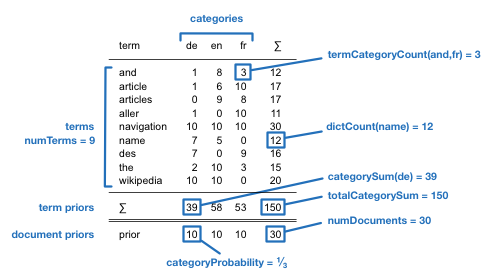
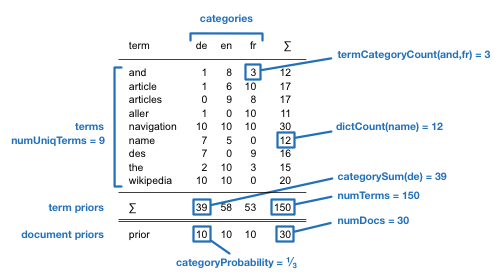
Fix some naming.

diff --git a/palladian-core/src/main/java/ws/palladian/classification/text/PalladianTextClassifier.java b/palladian-core/src/main/java/ws/palladian/classification/text/PalladianTextClassifier.java
@@ -60,13 +60,13 @@ public class PalladianTextClassifier implements Learner<DictionaryModel>, Classi
          * @param dictCount The absolute count of documents in the dictionary which contain the term.
          * @param docCount The absolute count of the term in the current document.
          * @param categorySum The absolute count sum of all terms in the current category.
-         * @param numTerms The total number of unique terms in the dictionary model.
+         * @param numUniqTerms The total number of unique terms in the dictionary model.
          * @param numDocs The total number of documents in the dictionary model.
-         * @param totalCategorySum The total count sum of all terms in all categories.
+         * @param numTerms The total number of terms in the dictionary model.
          * @return A score for the term-category pair, greater/equal zero.
          */
         double score(String term, String category, int termCategoryCount, int dictCount, int docCount, int categorySum,
-                int numTerms, int numDocs, int totalCategorySum);
+                int numUniqTerms, int numDocs, int numTerms);
 
         /**
          * (Re)score a category, after all term-category-pairs have been scored.
@@ -90,7 +90,7 @@ public class PalladianTextClassifier implements Learner<DictionaryModel>, Classi
     public static class DefaultScorer implements Scorer {
         @Override
         public double score(String term, String category, int termCategoryCount, int dictCount, int docCount,
-                int categorySum, int numTerms, int numDocs, int totalCategorySum) {
+                int categorySum, int numUniqTerms, int numDocs, int numTerms) {
             if (dictCount == 0) { // prevent zero division
                 return 0;
             }
@@ -208,9 +208,9 @@ public class PalladianTextClassifier implements Learner<DictionaryModel>, Classi
             termCounts.add(iterator.next());
         }
         CategoryEntries termSums = model.getTermPriors();
-        int numTerms = model.getNumTerms();
+        int numUniqTerms = model.getNumTerms();
         int numDocs = model.getPriors().getTotalCount();
-        int totalCategorySum = termSums.getTotalCount();
+        int numTerms = termSums.getTotalCount();
 
         for (Entry<String, Integer> termCount : termCounts.unique()) {
             String term = termCount.getKey();
@@ -225,8 +225,8 @@ public class PalladianTextClassifier implements Learner<DictionaryModel>, Classi
                 String categoryName = category.getName();
                 int categorySum = termSums.getCount(categoryName);
                 int count = categoryCounts.count(categoryName);
-                double score = scorer.score(term, categoryName, count, dictCount, docCount, categorySum, numTerms,
-                        numDocs, totalCategorySum);
+                double score = scorer.score(term, categoryName, count, dictCount, docCount, categorySum, numUniqTerms,
+                        numDocs, numTerms);
                 builder.add(categoryName, score);
             }
         }

diff --git a/palladian-core/src/main/java/ws/palladian/classification/text/BayesScorer.java b/palladian-core/src/main/java/ws/palladian/classification/text/BayesScorer.java
@@ -63,10 +63,10 @@ public final class BayesScorer implements Scorer {
     }
 
     @Override
-    public double score(String term, String category, int termCategoryCount, int dictCount, int docCount,
-            int categorySum, int numTerms, int numDocs, int totalCategorySum) {
+    public double score(String term, String category, int termCategoryCount, int dictCount, int docCount, int categorySum,
+            int numUniqTerms, int numDocs, int numTerms) {
         int numerator = (complement ? dictCount - termCategoryCount : termCategoryCount) + (laplace ? 1 : 0);
-        int denominator = (complement ? totalCategorySum - categorySum : categorySum) + (laplace ? numTerms : 0);
+        int denominator = (complement ? numTerms - categorySum : categorySum) + (laplace ? numTerms : 0);
         if (numerator == 0 || denominator == 0) {
             return 0;
         }
